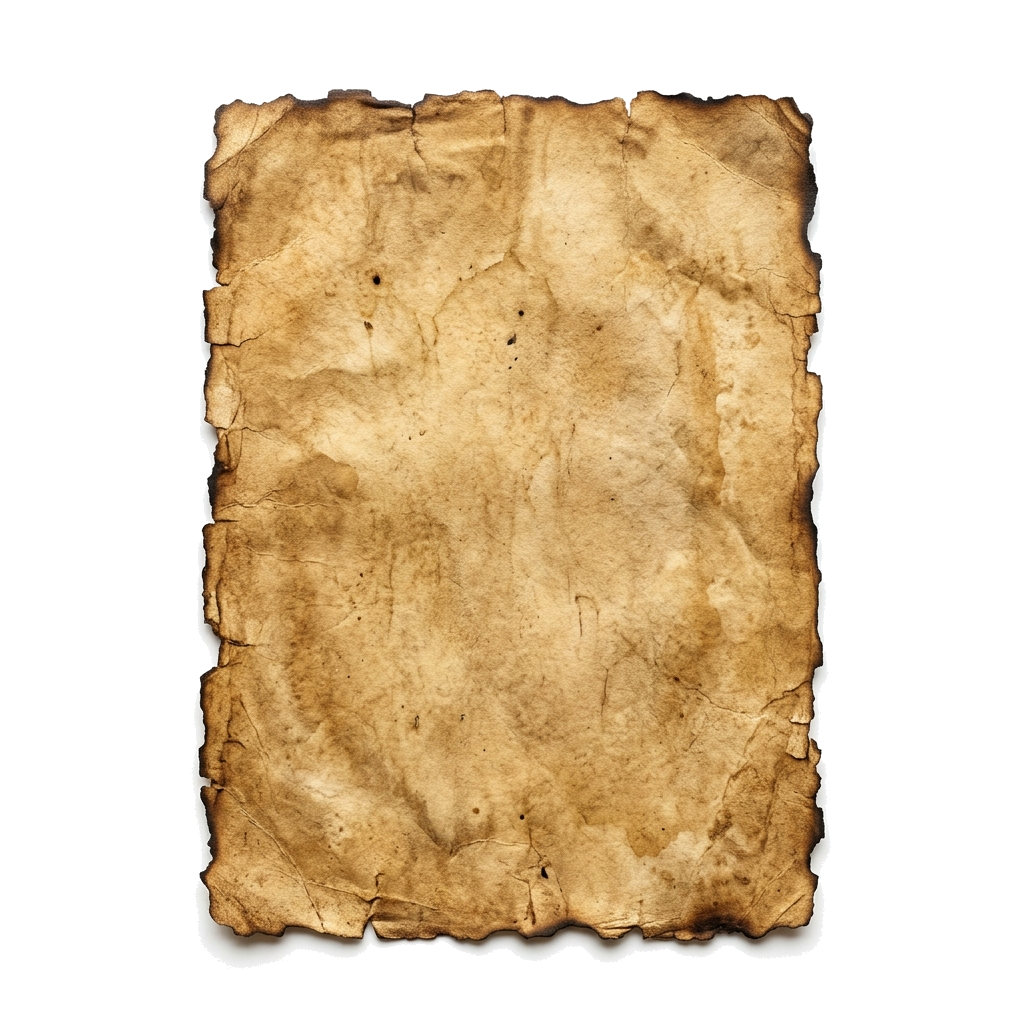
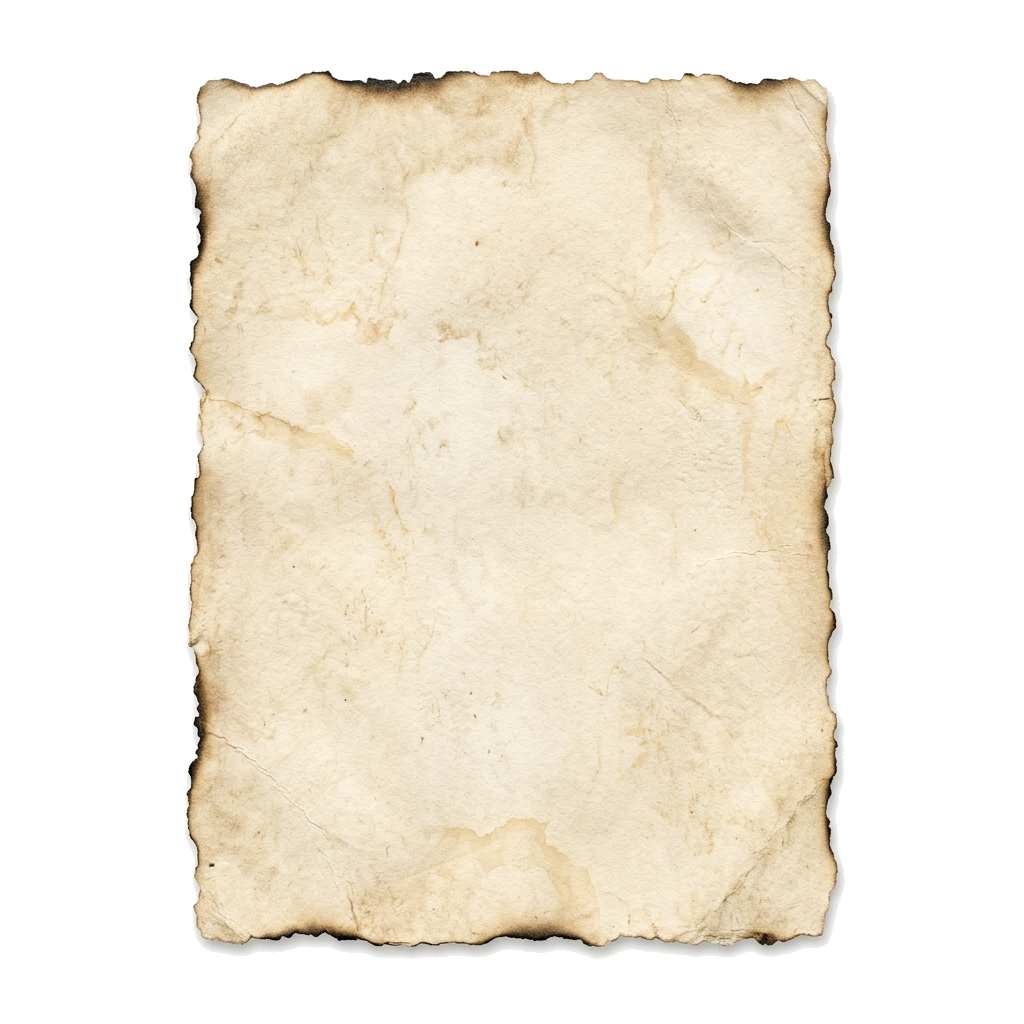
style: replace letter page parchment background with a lighter cream version to enhance text readability

diff --git a/process_parchment.py b/process_parchment.py
@@ -15,6 +15,6 @@ def make_parchment_transparent(input_path, output_path):
 
 if __name__ == "__main__":
     make_parchment_transparent(
-        "/Users/yong/.gemini/antigravity-cli/brain/94239e22-cba2-4161-b34b-e5c9b39ae674/letter_parchment_1779506308977.png",
+        "/Users/yong/.gemini/antigravity-cli/brain/94239e22-cba2-4161-b34b-e5c9b39ae674/letter_parchment_light_1779528794491.png",
         "/Users/yong/workspace/pirates/letter_parchment.png"
     )
